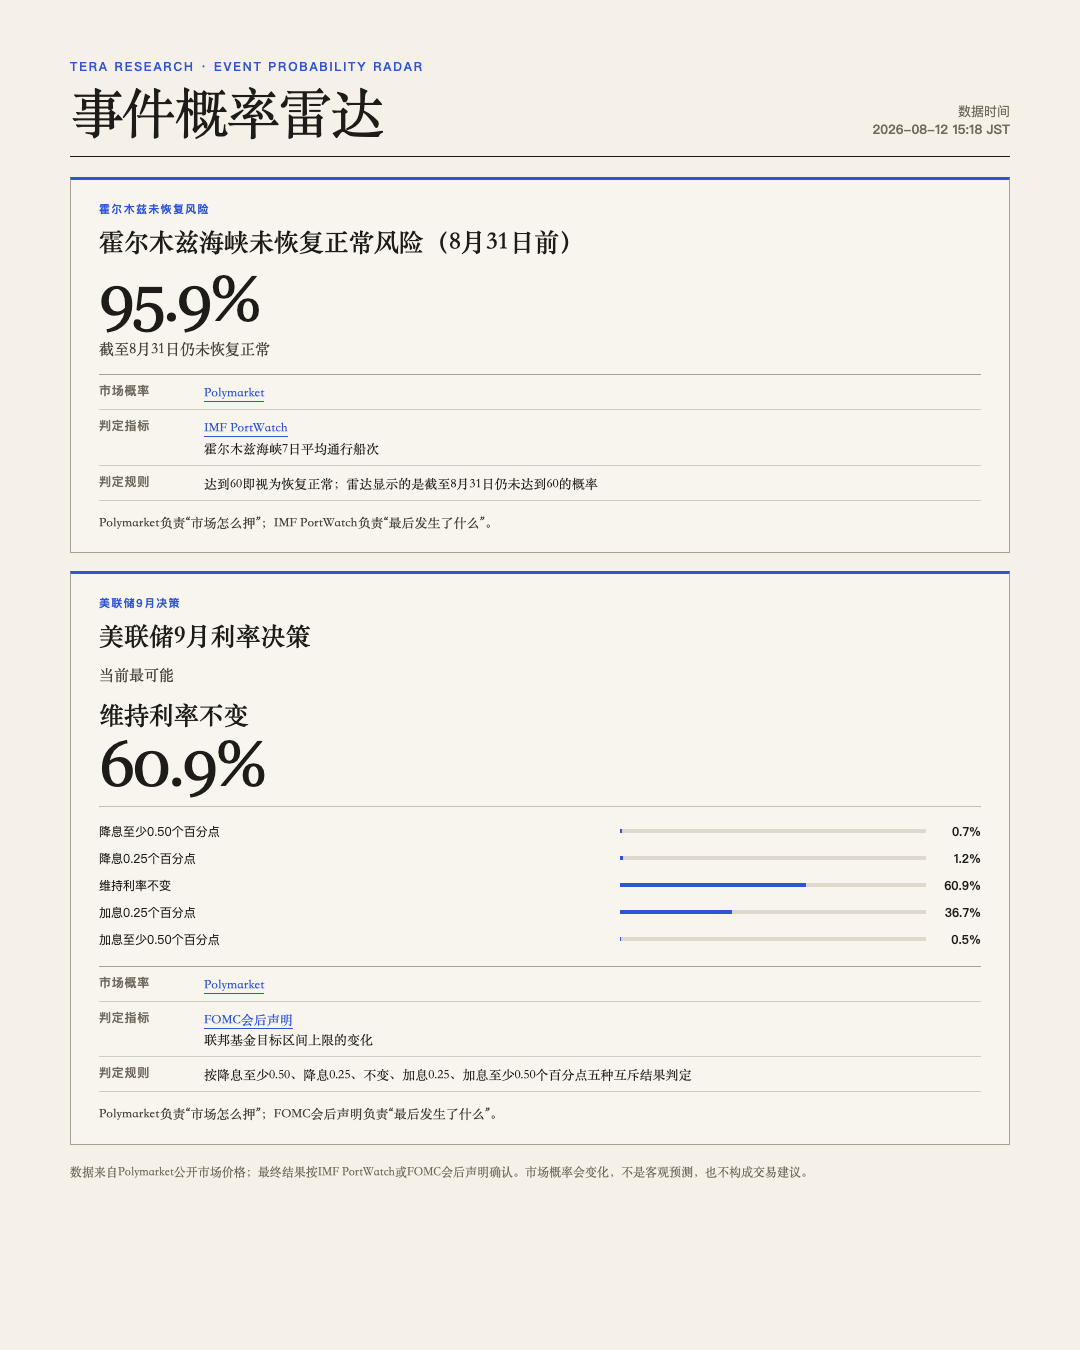
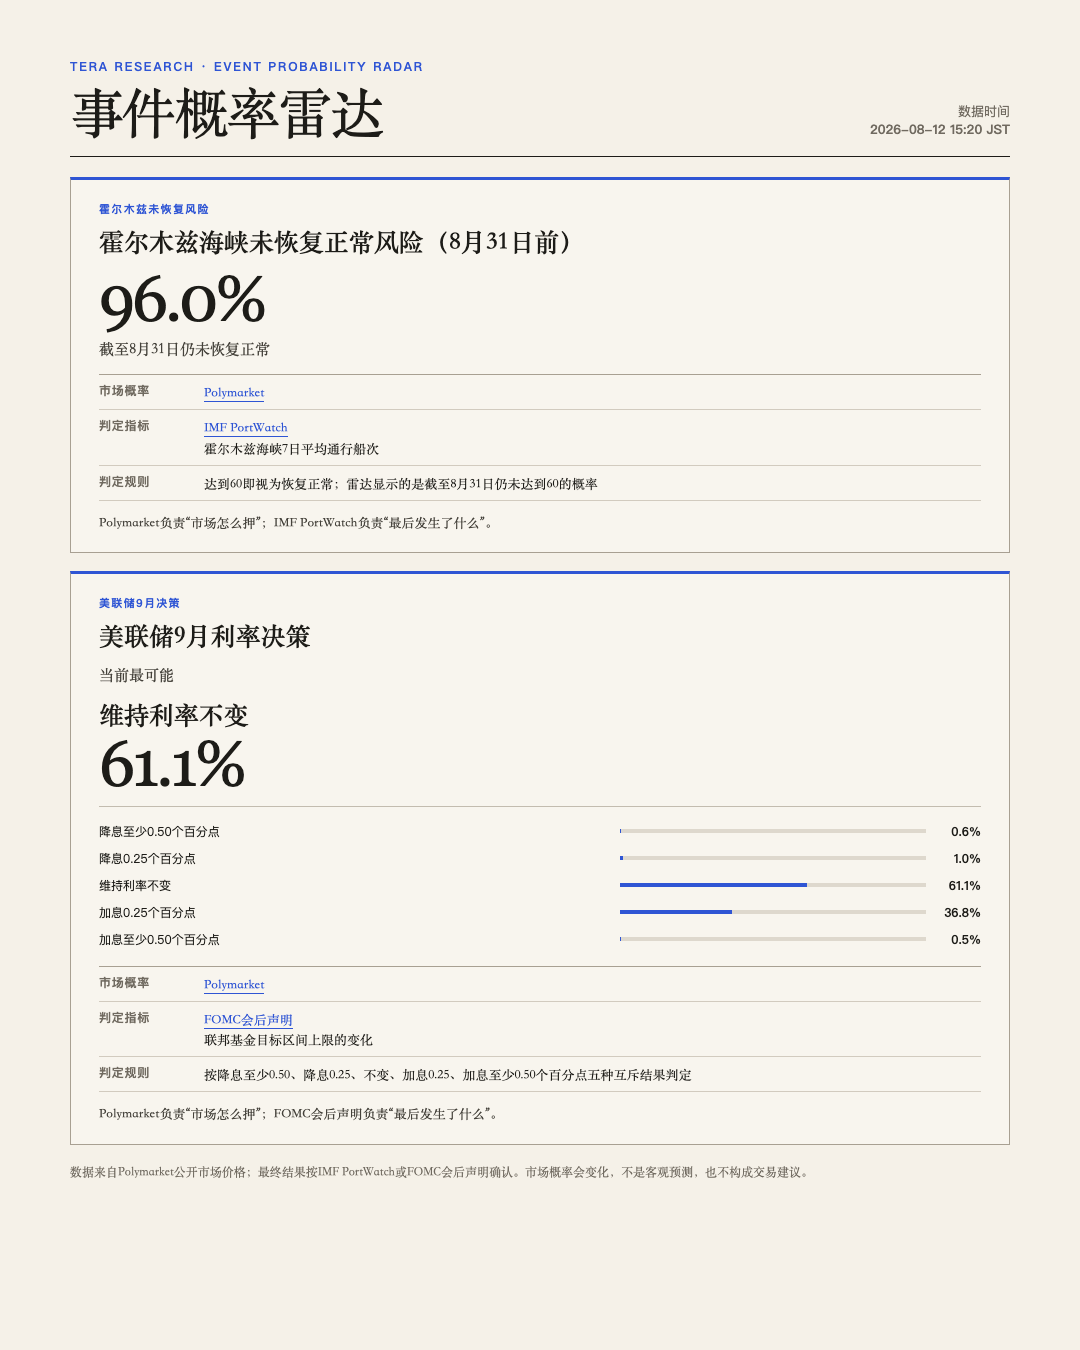
Refresh event radar share snapshot

diff --git a/source/event-radar/index.html b/source/event-radar/index.html
@@ -45,10 +45,10 @@ permalink: /event-radar/
 <main class="radar-shell" aria-labelledby="radar-title">
   <header class="radar-head">
     <div><p class="radar-kicker">Event Probability Radar</p><h1 id="radar-title">事件概率雷达</h1></div>
-    <p class="radar-time">数据时间<br><strong>2026-08-12 15:18 JST</strong></p>
+    <p class="radar-time">数据时间<br><strong>2026-08-12 15:20 JST</strong></p>
   </header>
-  <div class="radar-grid"><article class="radar-event"><p class="radar-eyebrow">霍尔木兹未恢复风险</p><h2>霍尔木兹海峡未恢复正常风险（8月31日前）</h2><p class="radar-number">95.9%</p><p class="radar-question">截至8月31日仍未恢复正常</p><dl class="radar-method"><div><dt>市场概率</dt><dd><a href="https://polymarket.com/event/strait-of-hormuz-traffic-returns-to-normal-by-august-31-20260702154212320" target="_blank" rel="noopener">Polymarket</a></dd></div><div><dt>判定指标</dt><dd><a href="https://portwatch.imf.org/pages/cb5856222a5b4105adc6ee7e880a1730" target="_blank" rel="noopener">IMF PortWatch</a><br>霍尔木兹海峡7日平均通行船次</dd></div><div><dt>判定规则</dt><dd>达到60即视为恢复正常；雷达显示的是截至8月31日仍未达到60的概率</dd></div></dl><p class="radar-explainer">Polymarket负责“市场怎么押”；IMF PortWatch负责“最后发生了什么”。</p></article><article class="radar-event"><p class="radar-eyebrow">美联储9月决策</p><h2>美联储9月利率决策</h2><p class="radar-question">当前最可能</p><p class="radar-leader">维持利率不变</p><p class="radar-number">60.9%</p><ol class="radar-outcomes" aria-label="五个互斥结果，合计100%"><li><span>降息至少0.50个百分点</span><span class="radar-outcome-track" aria-hidden="true"><span style="width:0.7%"></span></span><strong>0.7%</strong></li><li><span>降息0.25个百分点</span><span class="radar-outcome-track" aria-hidden="true"><span style="width:1.2%"></span></span><strong>1.2%</strong></li><li><span>维持利率不变</span><span class="radar-outcome-track" aria-hidden="true"><span style="width:60.9%"></span></span><strong>60.9%</strong></li><li><span>加息0.25个百分点</span><span class="radar-outcome-track" aria-hidden="true"><span style="width:36.7%"></span></span><strong>36.7%</strong></li><li><span>加息至少0.50个百分点</span><span class="radar-outcome-track" aria-hidden="true"><span style="width:0.5%"></span></span><strong>0.5%</strong></li></ol><dl class="radar-method"><div><dt>市场概率</dt><dd><a href="https://polymarket.com/event/fed-decision-in-september-762" target="_blank" rel="noopener">Polymarket</a></dd></div><div><dt>判定指标</dt><dd><a href="https://www.federalreserve.gov/monetarypolicy/fomccalendars.htm" target="_blank" rel="noopener">FOMC会后声明</a><br>联邦基金目标区间上限的变化</dd></div><div><dt>判定规则</dt><dd>按降息至少0.50、降息0.25、不变、加息0.25、加息至少0.50个百分点五种互斥结果判定</dd></div></dl><p class="radar-explainer">Polymarket负责“市场怎么押”；FOMC会后声明负责“最后发生了什么”。</p></article></div>
-  
+  <div class="radar-grid"><article class="radar-event"><p class="radar-eyebrow">霍尔木兹未恢复风险</p><h2>霍尔木兹海峡未恢复正常风险（8月31日前）</h2><p class="radar-number">96.0%</p><p class="radar-question">截至8月31日仍未恢复正常</p><dl class="radar-method"><div><dt>市场概率</dt><dd><a href="https://polymarket.com/event/strait-of-hormuz-traffic-returns-to-normal-by-august-31-20260702154212320" target="_blank" rel="noopener">Polymarket</a></dd></div><div><dt>判定指标</dt><dd><a href="https://portwatch.imf.org/pages/cb5856222a5b4105adc6ee7e880a1730" target="_blank" rel="noopener">IMF PortWatch</a><br>霍尔木兹海峡7日平均通行船次</dd></div><div><dt>判定规则</dt><dd>达到60即视为恢复正常；雷达显示的是截至8月31日仍未达到60的概率</dd></div></dl><p class="radar-explainer">Polymarket负责“市场怎么押”；IMF PortWatch负责“最后发生了什么”。</p></article><article class="radar-event"><p class="radar-eyebrow">美联储9月决策</p><h2>美联储9月利率决策</h2><p class="radar-question">当前最可能</p><p class="radar-leader">维持利率不变</p><p class="radar-number">61.1%</p><ol class="radar-outcomes" aria-label="五个互斥结果，合计100%"><li><span>降息至少0.50个百分点</span><span class="radar-outcome-track" aria-hidden="true"><span style="width:0.6%"></span></span><strong>0.6%</strong></li><li><span>降息0.25个百分点</span><span class="radar-outcome-track" aria-hidden="true"><span style="width:1.0%"></span></span><strong>1.0%</strong></li><li><span>维持利率不变</span><span class="radar-outcome-track" aria-hidden="true"><span style="width:61.1%"></span></span><strong>61.1%</strong></li><li><span>加息0.25个百分点</span><span class="radar-outcome-track" aria-hidden="true"><span style="width:36.8%"></span></span><strong>36.8%</strong></li><li><span>加息至少0.50个百分点</span><span class="radar-outcome-track" aria-hidden="true"><span style="width:0.5%"></span></span><strong>0.5%</strong></li></ol><dl class="radar-method"><div><dt>市场概率</dt><dd><a href="https://polymarket.com/event/fed-decision-in-september-762" target="_blank" rel="noopener">Polymarket</a></dd></div><div><dt>判定指标</dt><dd><a href="https://www.federalreserve.gov/monetarypolicy/fomccalendars.htm" target="_blank" rel="noopener">FOMC会后声明</a><br>联邦基金目标区间上限的变化</dd></div><div><dt>判定规则</dt><dd>按降息至少0.50、降息0.25、不变、加息0.25、加息至少0.50个百分点五种互斥结果判定</dd></div></dl><p class="radar-explainer">Polymarket负责“市场怎么押”；FOMC会后声明负责“最后发生了什么”。</p></article></div>
+
   <div class="radar-actions" aria-label="分享选项">
     <button class="radar-action" type="button" data-radar-share>分享页面</button>
     <button class="radar-action radar-action--secondary" type="button" data-radar-copy>复制分享摘要</button>
@@ -59,7 +59,7 @@ permalink: /event-radar/
 </main>
 <script>
 (() => {
-  const text = "事件概率雷达｜2026-08-12 15:18 JST\n霍尔木兹：截至8月31日仍未恢复正常 95.9%\n美联储9月：降息至少0.50个百分点 0.7%；降息0.25个百分点 1.2%；维持利率不变 60.9%；加息0.25个百分点 36.7%；加息至少0.50个百分点 0.5%\n概率来自Polymarket；最终结果按各事件的独立判定指标确认。\n仅反映市场当时预期，不构成交易建议。\nhttps://terazadl.github.io/event-radar/";
+  const text = "事件概率雷达｜2026-08-12 15:20 JST\n霍尔木兹：截至8月31日仍未恢复正常 96.0%\n美联储9月：降息至少0.50个百分点 0.6%；降息0.25个百分点 1.0%；维持利率不变 61.1%；加息0.25个百分点 36.8%；加息至少0.50个百分点 0.5%\n概率来自Polymarket；最终结果按各事件的独立判定指标确认。\n仅反映市场当时预期，不构成交易建议。\nhttps://terazadl.github.io/event-radar/";
   const title = "事件概率雷达｜霍尔木兹与美联储";
   const status = document.querySelector('.radar-status');
   const setStatus = value => { if (status) status.textContent = value; };
